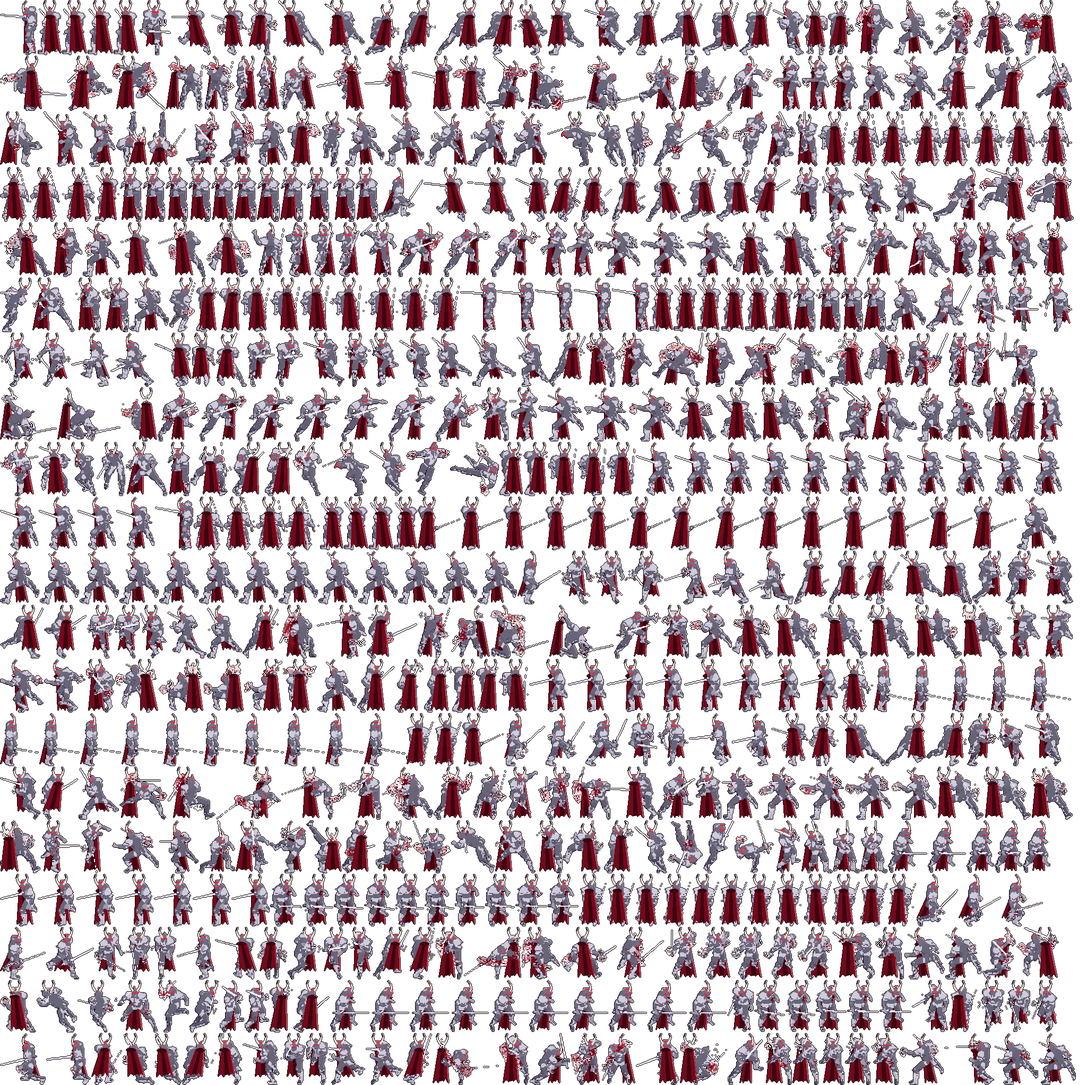
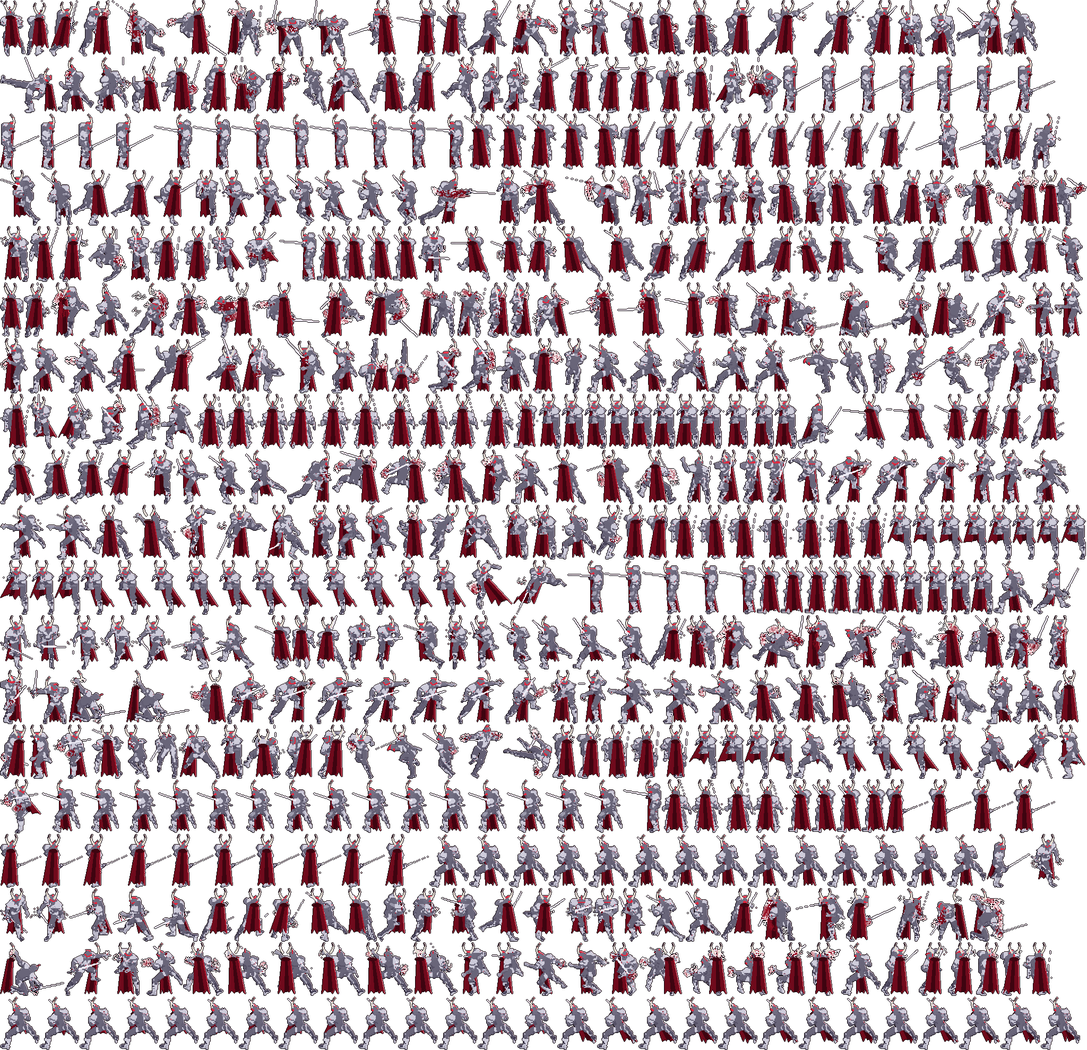
Vesper: the First Cut's animation and effects packs; the opening re-cut for him
Cinematic clips from the knight's own frames with the cape in the wind (hover,
stand, raise, cut, command) and his own effects (the crescent cut, flame aura,
crown fire, blade glint, wind, summoning rune, shockwave). The opening's shots
of him now play them: the rise, the call to his army, the cut across the moon,
the wait at the top of the Spire.

Claude-Session: https://claude.ai/code/session_01U68ANvC5EPq8neAmbwhWjn

diff --git a/vesper/js/intro.js b/vesper/js/intro.js
@@ -394,7 +394,8 @@
       // He rises out of the city behind the roofs and comes to stand on the Spire's tip (the real knight, crisp).
       const fy = Math.round(H() * 1.15 + (spTip + 1 - H() * 1.15) * rise);
       A.tex(ctx, 'light_01', sx, fy - 40, W() * 0.9 * (0.5 + rise), H() * 1.2, '#a01838', 0.6 * rise, 0, true);
-      godAt(ctx, S, sx, fy, 2, T, { col: '#140409', amt: 0.35, pose: rise >= 1 && T > 2.3 ? 'raise' : null });
+      godAt(ctx, S, sx, fy, 2, T, { col: '#140409', amt: 0.35, pose: rise < 1 ? 'hover' : T > 2.3 ? 'raise' : 'stand', aura: 0.5 + 0.4 * rise, crown: rise >= 1 });
+      if (rise > 0.2) A.fx(ctx, 'fc_wind', T, sx, fy - 50, 1.4, 0.7 * rise);   // ash and torn cloth streaming off him
       if (rise < 1) for (let i = 0; i < 16; i++) { const ph = (T * 1.4 + hash(i, 611)) % 1, px = sx + (hash(i, 612) - 0.5) * 40, py = fy - 10 + ph * 40; ctx.fillStyle = `rgba(30,12,20,${0.8 * (1 - ph)})`; ctx.fillRect(Math.round(px), Math.round(py), 1, 1); }
     }
     // The city: its windows going dark as the ground shakes.
@@ -433,10 +434,13 @@
     ctx.save(); ctx.translate(mx, H() * 0.6); ctx.scale(push, push); ctx.translate(-mx, -H() * 0.6);
     moon(ctx, mx + (raise ? Math.sin(T * 60) * 1.5 : 0), H() * 0.34, H() * 0.34, '#f4ece6', 'rgba(255,240,230,0.3)', 0);
     { const rg = ctx.createRadialGradient(mx, H() * 0.7, 4, mx, H() * 0.7, W() * 0.5); rg.addColorStop(0, 'rgba(30,0,8,0.8)'); rg.addColorStop(1, 'rgba(30,0,8,0)'); ctx.fillStyle = rg; ctx.fillRect(-8, -8, W() + 16, H() + 16); }
-    // Him on the Spire's tip against the moon, close: the real knight at 3x; he draws his sword back.
+    // Him on the Spire's tip against the moon: he calls his army (arms out, the fire rising round him, his runes
+    // opening on the roofs far below), then draws his sword back along the line the cut will take, the moon running
+    // down its edge (his animation and effects packs: C_Command, C_Cut, fc_aura, fc_summon, fc_glint).
     A.tex(ctx, 'light_01', mx, H() * 0.55, 140, 150, '#a01838', 0.35, 0, true);
-    godAt(ctx, S, mx, Math.round(H() * 0.88), 3, T, { pose: raise ? 'side' : null, col: '#0a0408', amt: 0.3 });
-    if (raise) A.tex(ctx, 'light_01', mx - 30, H() * 0.6, 50, 50, '#ffffff', 0.25 * clamp((T - 1.2) / 0.4), 0, true);   // the moon on his blade
+    if (!raise) for (let i = 0; i < 4; i++) A.fx(ctx, 'fc_summon', T + i * 0.3, mx + (i - 1.5) * 52, H() * (0.9 + (i % 2) * 0.05), 0.9, clamp(T * 2 - i * 0.25));
+    godAt(ctx, S, mx, Math.round(H() * 0.88), 2, T, { pose: raise ? 'cut' : 'command', ft: raise ? 0.18 * clamp((T - 1.2) / 0.5) : null, col: '#0a0408', amt: 0.3, crown: true });
+    if (raise) A.fx(ctx, 'fc_glint', T - 1.3, mx - 22, H() * 0.6, 1, 1, -1.1);   // the moon running down his blade
     // The tip of the Spire beneath his feet.
     ctx.fillStyle = '#030204'; ctx.beginPath(); ctx.moveTo(mx - 30, H() + 10); ctx.lineTo(mx - 4, H() * 0.88); ctx.lineTo(mx + 4, H() * 0.88); ctx.lineTo(mx + 30, H() + 10); ctx.fill();
     ctx.restore();
@@ -471,7 +475,8 @@
     const hz = Math.round(H() * 0.86), gx = Math.round(mx), gy = Math.round(H() * 0.64);   // he stands on the Spire's tip, in front of the moon
     if (red > 0) A.tex(ctx, 'light_01', mx, hz, W() * 1.3, 60, RED, 0.6 * red, 0, true);
     A.tex(ctx, 'light_01', gx, gy - 40, 110, 110, red > 0 ? '#ff3a52' : '#a0a0c0', 0.25, 0, true);
-    godAt(ctx, S, gx, gy, 2, T, { pose: T < 1.55 ? 'side' : null, ft: T < 1.15 ? null : clamp((T - 1.15) / 0.4), col: '#0a0408', amt: 0.3 });
+    godAt(ctx, S, gx, gy, 2, T, { pose: 'cut', ft: T < 1.15 ? 0.18 : 0.18 + 0.82 * clamp((T - 1.15) / 0.5), col: '#0a0408', amt: 0.3, crown: true });
+    if (T > 1.1 && T < 1.75) A.fx(ctx, 'fc_crescent', T - 1.1, mx, my + r * 0.05, r / 120, 1, ang);   // his cut, a crescent of light across the moon
     if (T < 1.15) { const c = clamp(T / 1.1); A.tex(ctx, 'light_01', gx - 30, gy - 30, 30 + 40 * c, 30 + 40 * c, '#ffffff', 0.4 + 0.5 * c, 0, true); }   // light gathering on his blade
     ctx.fillStyle = '#0c0610'; ctx.beginPath(); ctx.moveTo(mx - 9, hz + 4); ctx.lineTo(mx - 2, H() * 0.68); ctx.lineTo(mx, H() * 0.64); ctx.lineTo(mx + 2, H() * 0.68); ctx.lineTo(mx + 9, hz + 4); ctx.fill();
     city(ctx, H() * 0.84, 7, '#1c1222', 0.3 * (1 - red), 1.0, 0);
@@ -778,6 +783,8 @@
   // col asks for a pure silhouette (the ink frames); any other darkens him toward it. Until the set has loaded: the
   // polygons (or nothing, with o.optional).
   const GOD_SET = 'vh_firstcut', godRef = {};
+  // pose -> [clip, frames, loop from (held poses cycle their last frames), fps]
+  const GOD_FILM = { hover: ['C_Hover', 15], stand: ['C_Stand', 15], raise: ['C_Raise', 12, 4, 6], cut: ['C_Cut', 15], command: ['C_Command', 15, 7, 6] };
   // The First Cut standing with his feet at (fx, fy), k (a whole number) pixels per sprite pixel, in a pose: guard
   // (Idle4), raise (Taunt, or the overhead cut of Attack4 through o.ft 0..1), side (drawn back: Attack6, or the swing
   // through o.ft), kneel (the end of his overhead cut, down on one knee). Shading as colossus().
@@ -786,14 +793,20 @@
     o = o || {}; k = Math.max(1, Math.min(2, Math.round(k)));
     const col = o.col || '#050204', ink = o.ink || /^#(000|000000|fff|ffffff)$/i.test(col), ang = o.ang == null ? Math.PI / 2 : o.ang;
     let clip = 'Idle4', fr = Math.floor((T || 0) * 7) % 15;
-    if (o.pose === 'raise') { if (o.ft != null) { clip = 'Attack4'; fr = Math.min(14, Math.floor(o.ft * 15)); } else { clip = 'Taunt'; fr = 12; } }
+    // His animation pack for the films (tools_firstcut.py: C_*, the cape in the wind): hover, stand, raise, cut, command.
+    const FILM = GOD_FILM[o.pose];
+    if (FILM) { clip = FILM[0]; const n = FILM[1]; fr = o.ft != null ? Math.min(n - 1, Math.floor(o.ft * n)) : FILM[2] != null ? FILM[2] + Math.floor((T || 0) * FILM[3]) % (n - FILM[2]) : Math.floor((T || 0) * 8) % n; }
+    else if (o.pose === 'raise') { if (o.ft != null) { clip = 'Attack4'; fr = Math.min(14, Math.floor(o.ft * 15)); } else { clip = 'Taunt'; fr = 12; } }
     else if (o.pose === 'side') { clip = 'Attack6'; fr = o.ft != null ? Math.min(14, 1 + Math.floor(o.ft * 10)) : 1; }
     else if (o.pose === 'kneel') { clip = 'Attack4'; fr = 13; }
     if (!A.hasSet(GOD_SET)) { if (!o.optional) colossusDrawn(ctx, S, fx, fy - 38 * k, k, T, { flat: true, pose: o.pose === 'side' ? 'side' : o.pose === 'raise' ? 'raise' : 'plant', col }); return false; }
     const sm = ctx.imageSmoothingEnabled; ctx.imageSmoothingEnabled = false;
     const ref = godRef['f' + k] || (godRef['f' + k] = A.box(GOD_SET, 'Idle4', 0, ang, k));   // his feet (the sprite's anchor sits higher)
     const y = ref ? fy - (ref.y + ref.h) : fy;
+    // His effects pack (tools_firstcut_fx.py): the fire rising round him behind, the flames on his crown in front.
+    if (o.aura && !ink) A.fx(ctx, 'fc_aura', T || 0, Math.round(fx), Math.round(fy + 2), k * 0.4, 0.6 * (o.aura === true ? 1 : o.aura));   // low, licking about his feet
     A.actor(ctx, GOD_SET, clip, fr, ang, Math.round(fx), Math.round(y), k, ink ? { shade: col } : { flash: Math.min(0.16, o.amt != null ? o.amt : 0.16), flashCol: col });
+    if (o.crown && !ink && ref) A.fx(ctx, 'fc_crown', T || 0, Math.round(fx), Math.round(y + ref.y + 10 * k), k * 0.8, 0.9);
     ctx.imageSmoothingEnabled = sm; return true;
   }
   function colossus(ctx, S, ex, ey, sc, T, o) {
@@ -829,7 +842,8 @@
     const bolt = (T > 1.1 && T < 1.22) || (T > 2.6 && T < 2.7);
     if (bolt) fill(ctx, 'rgba(255,220,230,0.18)');
     { const py = Hh * 0.8; ctx.fillStyle = '#030102'; ctx.beginPath(); ctx.moveTo(ex - 60, at(Hh * 1.4)); ctx.lineTo(ex - 14, at(py + 6)); ctx.lineTo(ex - 6, at(py)); ctx.lineTo(ex + 8, at(py)); ctx.lineTo(ex + 16, at(py + 8)); ctx.lineTo(ex + 64, at(Hh * 1.4)); ctx.fill();   // the pinnacle
-      godAt(ctx, S, ex, at(py) + 1, 3, T, { col: bolt ? '#3a0c18' : '#0a0408', amt: bolt ? 0.15 : 0.3, pose: T > 2.3 ? 'raise' : null }); }
+      godAt(ctx, S, ex, at(py) + 1, 2, T, { col: bolt ? '#3a0c18' : '#0a0408', amt: bolt ? 0.15 : 0.3, pose: T > 2.3 ? 'raise' : 'stand', aura: true, crown: true });
+      A.fx(ctx, 'fc_wind', T, ex - 10, at(py) - 50, 1.6, 0.8); }
     if (T > 2.3 && T < 2.4) kick(S, 6);
     // Clouds across his chest and waist, stones rising past him.
     for (let i = 0; i < 6; i++) A.tex(ctx, i % 2 ? 'smoke_07' : 'smoke_04', ((hash(i, 221) * W() * 1.6 + T * 12 * (i % 2 ? 1 : -1)) % (W() * 1.6)) - W() * 0.3, at(Hh * (0.85 + i * 0.17)), W() * 0.9, 50, '#3a0a14', 0.55, 0, false);
@@ -852,7 +866,7 @@
     ctx.save(); ctx.translate(W() / 2, gy); ctx.scale(push, push); ctx.translate(-W() / 2, -gy);
     moon(ctx, W() * 0.5, H() * 0.3, H() * 0.24, '#ff3a52', 'rgba(255,40,70,0.6)', 1, T);
     A.tex(ctx, 'light_01', W() * 0.5, H() * 0.4, W() * 0.8, H() * 0.7, '#7a1028', 0.5, 0, true);
-    godAt(ctx, S, Math.round(W() * 0.5), Math.round(H() * 0.62) + 1, 2, T, { col: '#0a0306', amt: 0.3 });
+    godAt(ctx, S, Math.round(W() * 0.5), Math.round(H() * 0.62) + 1, 2, T, { col: '#0a0306', amt: 0.3, pose: 'stand', crown: true });
     city(ctx, gy - 18, 29, '#14040a', 0, 0.7, 0);
     ctx.fillStyle = '#0c0206'; ctx.beginPath(); ctx.moveTo(W() * 0.5 - 6, gy - 16); ctx.lineTo(W() * 0.5 - 1, H() * 0.62); ctx.lineTo(W() * 0.5 + 1, H() * 0.62); ctx.lineTo(W() * 0.5 + 6, gy - 16); ctx.fill();   // the Spire (he stands on it)
     for (let i = 0; i < 3; i++) A.tex(ctx, 'smoke_04', ((hash(i, 741) * W() * 1.4 + T * (6 + i * 3)) % (W() * 1.4)) - W() * 0.2, gy - 16 + i * 4, W() * 0.8, 22, '#4a0c18', 0.5, 0, false);
@@ -910,7 +924,7 @@
       const e = clamp((k - 0.65) / 0.35);
       ctx.fillStyle = '#0a0204'; ctx.fillRect(-8, -8, W() + 16, gy + 8);
       { const rg = ctx.createRadialGradient(W() * 0.5, H() * 0.24, 4, W() * 0.5, H() * 0.3, W() * 0.6); rg.addColorStop(0, '#7a1424'); rg.addColorStop(1, '#14030a'); ctx.fillStyle = rg; ctx.fillRect(-8, -8, W() + 16, H() + 16); }
-      godAt(ctx, S, Math.round(W() * 0.5), Math.round(H() * 0.62), 2, T, { col: '#030102', amt: 0.5 });
+      godAt(ctx, S, Math.round(W() * 0.5), Math.round(H() * 0.62), 2, T, { col: '#030102', amt: 0.5, pose: 'stand' });
       burningEyes(ctx, Math.round(W() * 0.5), Math.round(H() * 0.24), 9, 1, T);
       ctx.fillStyle = '#000'; ctx.fillRect(-8, gy, W() + 16, H());
       A.actor(ctx, vs, 'Special1', 14, -Math.PI * 0.5, gx, gy, 1.9, { shade: '#e8203c' });   // solid red against his black
@@ -1014,7 +1028,7 @@
     { const sp = Math.round(w * 0.47), tp = Math.round(h * 0.44); ctx.fillStyle = '#5a1a2a'; ctx.beginPath(); ctx.moveTo(sp - 10, hz + 4); ctx.lineTo(sp - 2, tp + 8); ctx.lineTo(sp - 2, tp); ctx.lineTo(sp + 2, tp); ctx.lineTo(sp + 2, tp + 8); ctx.lineTo(sp + 10, hz + 4); ctx.fill();
       ctx.fillStyle = '#0c0206'; ctx.beginPath(); ctx.moveTo(sp - 9, hz + 4); ctx.lineTo(sp - 1, tp + 9); ctx.lineTo(sp + 1, tp + 9); ctx.lineTo(sp + 9, hz + 4); ctx.fill();
       A.tex(ctx, 'light_01', sp, tp - 20, 50, 60, '#ff3a52', 0.4, 0, true);
-      godAt(ctx, S, sp, tp + 1, 1, T, { col: bolt ? '#3a0c18' : '#0c0206', amt: 0.25, optional: true }); }   // he waits at the top of the Spire
+      godAt(ctx, S, sp, tp + 1, 1, T, { col: bolt ? '#3a0c18' : '#0c0206', amt: 0.25, optional: true, pose: 'stand' }); }   // he waits at the top of the Spire
     ctx.fillStyle = '#0a0205'; ctx.fillRect(-20, hz + 2, w + 40, h);
     for (let i = 0; i < 34; i++) { const x = ((i * 11 + T * -6 + hash(i, 821) * 8) % (w + 40) + w + 40) % (w + 40) - 20; A.actor(ctx, deadSet(S, i), 'Walk', Math.floor(T * 7 + i * 3) % 15, Math.PI, Math.round(x), hz + 3 + (i % 3), 0.32, { shade: bolt ? '#4a1a24' : '#16040a' }); }
     ctx.restore();

diff --git a/vesper/js/assets.js b/vesper/js/assets.js
@@ -31,8 +31,9 @@
     let n = 0; const total = ids.length + 3; const tick = () => { n++; if (onProgress) onProgress(n / total); };
     const jobs = ids.map((id) => loadSet(id).then(tick));
     // The effect pack, and the forge's effects (tools_forge.py: v_*) merged in after it (their page indices shifted).
-    jobs.push(Promise.all([loadJSON(A.ROOT + 'fx/fx.json'), loadJSON(A.ROOT + 'fx/forge.json').catch(() => null)]).then(async ([d, f]) => {
-      if (f) { const off = d.pages.length; d.pages = d.pages.concat(f.pages); for (const k in f.fx) { const e = f.fx[k]; e.frames = e.frames.map((fr) => [fr[0] + off].concat(fr.slice(1))); d.fx[k] = e; } }
+    // ... and the First Cut's own pack (tools_firstcut_fx.py: fc_*), the same way.
+    jobs.push(Promise.all([loadJSON(A.ROOT + 'fx/fx.json'), loadJSON(A.ROOT + 'fx/forge.json').catch(() => null), loadJSON(A.ROOT + 'fx/fc_fx.json').catch(() => null)]).then(async ([d, f, fc]) => {
+      for (const g of [f, fc]) if (g) { const off = d.pages.length; d.pages = d.pages.concat(g.pages); for (const k in g.fx) { const e = g.fx[k]; e.frames = e.frames.map((fr) => [fr[0] + off].concat(fr.slice(1))); d.fx[k] = e; } }
       d.images = await Promise.all(d.pages.map((p) => loadImage(A.ROOT + 'fx/' + p))); fxData = d; tick();
     }));
     jobs.push(loadJSON(A.ROOT + 'tiles/tiles.json').then(async (d) => { d.images = await Promise.all(d.pages.map((p) => loadImage(A.ROOT + 'tiles/' + p))); tileData = d; tick(); }));

diff --git a/vesper/tools_firstcut_fx.py b/vesper/tools_firstcut_fx.py
@@ -1,0 +1,141 @@
+# THE BLEEDING MOON - the First Cut's effects pack (2026-11-11, the author: "create an animation and asset pack and
+# change the cutscenes for the opening to work better with his model"). Pixel effects in the fx.json format, drawn
+# with the forge's own helpers (tools_forge.py) and merged into the effect set by js/assets.js:
+#   fc_crescent   the cut that wounded the moon: a long crescent of white-hot light, crimson at its edges, sweeping
+#   fc_aura       crimson-black fire rising round him (a loop; drawn behind his feet)
+#   fc_crown      small flames licking up from his crown and horns (a loop)
+#   fc_glint      a glint running up his blade
+#   fc_wind       ash and torn cloth streaming past on the wind (a loop)
+#   fc_summon     a rune circle opening in the ground, red motes rising out of it (a loop)
+#   fc_shock      a flat crimson shockwave ring for his landing (seen from the side)
+# Writes assets/fx/fc_fx.json and fc_fx.png. Usage: python3 vesper/tools_firstcut_fx.py [preview.png]
+import json, math, os, sys
+import numpy as np
+from PIL import Image
+sys.path.insert(0, os.path.dirname(__file__))
+import tools_forge as T
+
+P, E, D = T.FXPAL['red'], T.FXPAL['ember'], T.FXPAL['dust']
+INK = (24, 6, 12)
+OUT = os.path.abspath(os.path.join(os.path.dirname(__file__), '..', 'assets', 'fx'))
+
+def crescent():
+    out = []
+    for i in range(10):
+        f = T.frame(256, 96); k = i / 9; a1 = -2.9 + 2.5 * min(1, (i + 1) / 4); tail = max(-2.9, a1 - 2.2)
+        if k < 0.95:
+            T.band(f, 128, 300, 222, 236 - k * 8, P[2], 255 * (1 - k * 0.6), 1.0, tail, a1)
+            T.band(f, 128, 300, 228, 236 - k * 5, P[4], 255 * (1 - k * 0.8), 1.0, max(tail, a1 - 1.2), a1)
+            T.band(f, 128, 300, 232, 236, P[6], 255 * (1 - k), 1.0, max(tail, a1 - 0.6), a1)
+        for j in range(10):   # sparks thrown off its leading edge
+            a = a1 - j * 0.09; d = 236 + (j % 3) * 3 + k * 10; T.put(f, 128 + math.cos(a) * d, 300 + math.sin(a) * d, P[5] if j % 2 else P[3], 255 * (1 - k))
+        out.append(f)
+    return out, 20, False
+
+def aura(seed):
+    """Tongues of crimson-black fire licking up round him: each a tapered flame, dark outside, red, a hot core low down."""
+    r = T.rng(seed); out = []; tongues = [(8 + r.random() * 48, r.random(), 0.7 + r.random() * 0.7, 24 + r.random() * 40) for _ in range(11)]
+    for i in range(10):
+        f = T.frame(64, 96); t = i / 10
+        T.blob(f, 32, 90, 24, INK, 110, 0.22)
+        for (x0, ph, sp, hmax) in tongues:
+            q = (t * sp + ph) % 1; h = hmax * (0.55 + 0.45 * math.sin(q * math.pi)); base = 92; w0 = 4.5
+            for yy in range(int(h)):
+                u = yy / h; x = x0 + math.sin(u * 3 + q * 6.283 + ph * 9) * 3 * u; w = w0 * (1 - u) ** 0.8
+                y = base - yy; a = 255 * (1 - u * 0.6)
+                for dx in range(-int(w) - 1, int(w) + 2):
+                    ad = abs(dx) / max(0.5, w)
+                    if ad > 1.15: continue
+                    col = INK if ad > 0.75 else P[2] if (ad > 0.35 or u > 0.45) else P[4] if u > 0.15 else P[5]
+                    T.put(f, x + dx, y, col, a)
+        out.append(f)
+    return out, 12, True
+
+def crown(seed):
+    r = T.rng(seed); out = []; ps = [(r.random() * 16 + 4, r.random()) for _ in range(8)]
+    for i in range(6):
+        f = T.frame(24, 28); t = i / 6
+        for (x0, ph) in ps:
+            q = (t + ph) % 1; y = 26 - q * 22; x = x0 + math.sin(q * 9 + ph * 7) * 1.5
+            T.put(f, x, y, P[3] if q < 0.5 else P[2], 255 * (1 - q)); T.put(f, x, y + 1, P[5] if q < 0.3 else P[3], 220 * (1 - q))
+        out.append(f)
+    return out, 12, True
+
+def glint():
+    out = []
+    for i in range(8):
+        f = T.frame(16, 72); k = i / 7; y = 66 - 60 * k
+        for dy in range(-6, 7):
+            a = 255 * (1 - abs(dy) / 7) * (1 - max(0, k - 0.8) * 5)
+            T.put(f, 8, y + dy, P[6] if abs(dy) < 2 else P[5], a)
+        T.blob(f, 8, y, 3, P[6], 255 * (1 - k * 0.5)); T.put(f, 4, y, P[5], 200); T.put(f, 12, y, P[5], 200)
+        out.append(f)
+    return out, 16, False
+
+def wind(seed):
+    r = T.rng(seed); out = []; ps = [(r.random() * 48, r.random(), r.random()) for _ in range(22)]
+    for i in range(12):
+        f = T.frame(128, 48); t = i / 12
+        for (y0, ph, kind) in ps:
+            q = (t + ph) % 1; x = q * 140 - 6; y = y0 + math.sin(q * 6 + ph * 5) * 3
+            if kind < 0.3:   # a torn scrap of his cape
+                T.put(f, x, y, (112, 10, 28)); T.put(f, x + 1, y, (178, 28, 48)); T.put(f, x - 1, y + 1, (62, 4, 16))
+            elif kind < 0.7: T.put(f, x, y, D[2], 200); T.put(f, x - 1, y, D[1], 150)
+            else: T.put(f, x, y, E[3], 230 * (1 - q)); T.put(f, x - 1, y, E[2], 160 * (1 - q))
+        out.append(f)
+    return out, 16, True
+
+def summon(seed):
+    r = T.rng(seed); out = []; motes = [(r.random() * 6.283, r.random(), r.random()) for _ in range(20)]
+    for i in range(10):
+        f = T.frame(96, 64); t = i / 10; cx, cy = 48, 52
+        T.band(f, cx, cy, 30, 33, P[2], 200, 0.32); T.band(f, cx, cy, 20, 22, P[3], 220, 0.32)
+        for j in range(8):   # runes turning round the ring
+            a = j / 8 * 6.283 + t * 0.8; x, y = cx + math.cos(a) * 26, cy + math.sin(a) * 26 * 0.32
+            T.put(f, x, y, P[5]); T.put(f, x + 1, y, P[4]); T.put(f, x, y - 1, P[4])
+        T.blob(f, cx, cy, 18, P[1], 120, 0.32)
+        for (a, ph, sp) in motes:
+            q = (t + ph) % 1; rr = 10 + 18 * sp; x = cx + math.cos(a) * rr; y = cy + math.sin(a) * rr * 0.32 - q * 46
+            T.put(f, x, y, P[4] if q < 0.5 else P[3], 255 * (1 - q))
+        out.append(f)
+    return out, 12, True
+
+def shock():
+    out = []
+    for i in range(9):
+        f = T.frame(192, 64); k = i / 8; rr = 10 + 84 * (1 - (1 - k) ** 2); w = 8 * (1 - k) + 2
+        T.band(f, 96, 40, rr - w, rr, P[2], 255 * (1 - k * 0.8), 0.3); T.band(f, 96, 40, rr - w * 0.4, rr, P[5], 255 * (1 - k), 0.3)
+        if i < 3: T.blob(f, 96, 40, 18 - i * 4, P[6], 255, 0.3)
+        out.append(f)
+    return out, 18, False
+
+def build(preview=None):
+    makers = {'fc_crescent': crescent(), 'fc_aura': aura(31), 'fc_crown': crown(32), 'fc_glint': glint(), 'fc_wind': wind(33), 'fc_summon': summon(34), 'fc_shock': shock()}
+    bottom = {'fc_aura', 'fc_crown', 'fc_summon'}
+    items, meta = [], {}
+    for name, (frames, fps, loop) in makers.items():
+        h, w = frames[0].shape[:2]; meta[name] = {'fps': fps, 'loop': loop, 'size': [w, h], 'anchor': [w // 2, h - 4] if name in bottom else [w // 2, h // 2]}
+        for i, f in enumerate(frames):
+            im = Image.fromarray(np.clip(f, 0, 255).astype(np.uint8), 'RGBA'); bb = im.getbbox() or (0, 0, 1, 1)
+            items.append((f'{name}/{i}', im.crop(bb), (bb[0], bb[1])))
+    page, place = T.pack(items, 1024)
+    page.save(OUT + '/fc_fx.png', optimize=True)
+    fx = {}
+    for name, m in meta.items():
+        n = len([k for k in place if k.startswith(name + '/')])
+        m['frames'] = [[0] + list(place[f'{name}/{i}'][:6]) for i in range(n)]; fx[name] = m
+    json.dump({'pages': ['fc_fx.png'], 'fx': fx}, open(OUT + '/fc_fx.json', 'w'))
+    print('fc fx:', list(fx), 'page', page.size)
+    if preview:
+        sheet = Image.new('RGBA', (1300, 120 * len(makers)), (38, 22, 30, 255)); y = 6
+        for name, (frames, fps, loop) in makers.items():
+            x = 6
+            for f in frames[:8]:
+                im = Image.fromarray(np.clip(f, 0, 255).astype(np.uint8), 'RGBA')
+                if im.width > 160: im = im.resize((im.width // 2, im.height // 2))
+                sheet.alpha_composite(im, (x, y)); x += im.width + 4
+            y += 110
+        sheet.save(preview)
+
+if __name__ == '__main__':
+    build(sys.argv[1] if len(sys.argv) > 1 else None)

diff --git a/vesper/tools_firstcut.py b/vesper/tools_firstcut.py
@@ -67,7 +67,7 @@ def head_of(a):
     ys, xs = np.nonzero(warm)
     if not len(ys): ys, xs = np.nonzero(a[..., 3] > 0); y0 = ys.min(); sel = ys <= y0 + 4; return xs[sel].mean(), y0 + 4.0
     y0 = ys.min(); sel = ys <= y0 + 5; return xs[sel].mean(), ys[sel].mean()
-def cape(im, d, hx, hy, feet, i, clip, front):
+def cape(im, d, hx, hy, feet, i, clip, front, wind=None):
     """A tattered crimson cape from his shoulders: behind him, or over his back when he faces away."""
     g = ImageDraw.Draw(im); sy = hy + 13; L = max(18, feet - sy - 4)
     side = {'E': -1, 'W': 1, 'SE': -0.5, 'SW': 0.5, 'NE': -0.5, 'NW': 0.5, 'S': 0, 'N': 0}[d]
@@ -75,15 +75,19 @@ def cape(im, d, hx, hy, feet, i, clip, front):
     profile = d in ('E', 'W')
     tw, bw = (9, 20) if profile else (15, 30) if front else (13, 28)
     back = side * (16 if moving else 9) + sway; L = L * (0.82 if moving else 1)
+    lift = 0
+    if wind:   # the cinematic clips: (wx, lift, spread, flutter): blown sideways, lifted and spread by the wind
+        wx, lift, spread, flut = wind; back = side * 4 + wx * L * 0.55 + math.sin(i * 1.3) * flut; bw *= spread
     tl, tr = (hx - tw / 2 + side * 3, sy), (hx + tw / 2 + side * 3, sy)
-    bl, br = (hx - bw / 2 + back, sy + L), (hx + bw / 2 + back, sy + L)
+    by = sy + L * (1 - lift)
+    bl, br = (hx - bw / 2 + back, by), (hx + bw / 2 + back, by)
     hem = [br]; n = 6
     for k in range(1, n):   # the torn hem
-        t = k / n; hem.append((br[0] + (bl[0] - br[0]) * t, br[1] - (7 if k % 2 else 1) - 2 * math.sin(i * 0.9 + k)))
+        t = k / n; amp = 2 if not wind else 2 + wind[3] * 0.8; hem.append((br[0] + (bl[0] - br[0]) * t, br[1] - (7 if k % 2 else 1) - amp * math.sin(i * 0.9 + k * 1.7)))
     hem.append(bl); pts = [tl, tr] + hem
     g.polygon(pts, fill=CAPE + (255,))
     mid = (tl[0] + tr[0]) / 2, (bl[0] + br[0]) / 2   # a fold down its middle and a lit edge
-    g.polygon([(mid[0] - 2, sy + 3), (mid[0] + 2, sy + 3), (mid[1] + 5, sy + L - 5), (mid[1] - 3, sy + L - 3)], fill=CAPE_DK + (255,))
+    g.polygon([(mid[0] - 2, sy + 3), (mid[0] + 2, sy + 3), (mid[1] + 5, by - 5), (mid[1] - 3, by - 3)], fill=CAPE_DK + (255,))
     g.line([tr, br], fill=CAPE_HI + (255,), width=2)
     g.ellipse([hx - tw / 2 - 1, sy - 3, hx + tw / 2 + 1, sy + 4], fill=CAPE_DK + (255,))   # the collar
 def horns(im, d, hx, hy):
@@ -98,15 +102,15 @@ def build():
     d = json.load(open(f'{PX}/{SRC}.json')); pages = [np.asarray(Image.open(f'{PX}/{p}').convert('RGBA')) for p in d['pages']]
     cache, items = {}, []   # unique frames: key -> (image, ox, oy)
     PAD = 14   # room (at 1x) for the cape, the horns and the outline
-    def process(f, clip, dname, i):
+    def process(f, clip, dname, i, wind=None):
         pg = pages[f[0]]; x, y, w, h, ox, oy = f[1:7]
         a = np.zeros((h + 2 * PAD, w + 2 * PAD, 4), np.uint8); a[PAD:PAD + h, PAD:PAD + w] = pg[y:y + h, x:x + w]
         hx, hy = head_of(a); hx, hy = hx * RES, hy * RES; feet = (PAD + h) * RES
         body = Image.fromarray(scale2x(recolour(a))); front = dname in ('N', 'NE', 'NW')
         canvas = Image.new('RGBA', body.size, (0, 0, 0, 0))
-        if clip not in NO_CAPE and not front: cape(canvas, dname, hx, hy, feet, i, clip, False)
+        if clip not in NO_CAPE and not front: cape(canvas, dname, hx, hy, feet, i, clip, False, wind)
         canvas.alpha_composite(body)
-        if clip not in NO_CAPE and front: cape(canvas, dname, hx, hy, feet, i, clip, True)
+        if clip not in NO_CAPE and front: cape(canvas, dname, hx, hy, feet, i, clip, True, wind)
         if clip != 'Die': horns(canvas, dname, hx, hy)
         img = finish(np.asarray(canvas).copy())
         ys, xs = np.nonzero(img[..., 3] > 0); y0, y1, x0, x1 = ys.min(), ys.max() + 1, xs.min(), xs.max() + 1
@@ -118,6 +122,24 @@ def build():
     anims = {}
     for clip, dirs in d['anims'].items():
         anims[clip] = {k: [None if f is None else process(f, clip, k, i) for i, f in enumerate(fr)] for k, fr in dirs.items()}
+    # The animation pack for the films (js/intro.js godAt): the knight's own frames, the cape in the wind.
+    #   C_Hover   rising over the city: the cape lifted and spread by the updraft
+    #   C_Stand   at the top of the Spire: the cape streaming out in the wind
+    #   C_Raise   the blade held high (the Taunt's raised frames), the cape billowing
+    #   C_Cut     the wide sweep that cut the moon (Attack6), the cape whipping against the swing
+    #   C_Command calling his dead up (Special1), the cape flaring
+    FILM_DIRS = ('S', 'SE', 'SW', 'E', 'W')
+    def film(name, src, frames, windf):
+        an = d['anims'][src]; anims[name] = {}
+        for k in FILM_DIRS:
+            fr = an.get(k) or an['S']; seq = [fr[min(len(fr) - 1, j)] for j in frames]
+            anims[name][k] = [None if f is None else process(f, 'Film', k, i, windf(i, len(seq), k)) for i, f in enumerate(seq)]
+    sgn = lambda k: {'E': -1, 'W': 1, 'SE': -1, 'SW': 1, 'S': 1}[k]
+    film('C_Hover', 'Idle4', range(15), lambda i, n, k: (0.15 * math.sin(i * 0.5), 0.42, 1.45, 4))
+    film('C_Stand', 'Idle4', range(15), lambda i, n, k: (0.75 * sgn(k), 0.18, 1.15, 3))
+    film('C_Raise', 'Taunt', [8, 9, 10, 11, 12, 12, 12, 13, 12, 12, 13, 12], lambda i, n, k: (0.5 * sgn(k), 0.3, 1.3, 4))
+    film('C_Cut', 'Attack6', range(15), lambda i, n, k: ((0.9 if i < 6 else -0.9) * sgn(k), 0.25, 1.3, 5))
+    film('C_Command', 'Special1', range(15), lambda i, n, k: (0.3 * sgn(k), 0.35 + 0.15 * min(1, i / 6), 1.5, 4))
     # Shelf-pack the unique frames, tallest first, into PAGE x PAGE sheets.
     order = sorted(range(len(items)), key=lambda i: -items[i][0].shape[0]); place = {}; sheets = []
     cx = cy = row = 0; sheet = None

diff --git a/vesper/README.md b/vesper/README.md
@@ -335,6 +335,21 @@ summit's far rim while you cut floating limbs. Now:
   The sheet says `"res": 2` and js/assets.js draws it at half the scale, so he keeps his size and gains the detail.
   Five 2048 pages, about 6 MB. He fights at 1.8 times a man's size. Used everywhere he appears: both his fights, the
   echo, the soul, the playable First Cut, the opening, the films.
+- **His animation pack** (the author: "create an animation and asset pack and change the cutscenes for the opening to work
+  better with his model"): cinematic clips in the same sheet, made from the knight's own frames with the cape answering the
+  wind (`tools_firstcut.py`, directions S, SE, SW, E, W): `C_Hover` (rising, the cape lifted and spread by the updraft),
+  `C_Stand` (the cape streaming out), `C_Raise` (the blade held high, its last frames cycling), `C_Cut` (the wide sweep that
+  cut the moon, the cape whipping against it), `C_Command` (calling his dead, arms out). godAt's poses `hover`, `stand`,
+  `raise`, `cut`, `command` play them.
+- **His effects pack** (`tools_firstcut_fx.py`, `assets/fx/fc_fx.*`, merged by js/assets.js): `fc_crescent` (the crescent of
+  white-hot light his cut leaves across the moon), `fc_aura` (crimson-black flame licking at his feet), `fc_crown` (flames on his
+  crown), `fc_glint` (the moon running down his blade), `fc_wind` (ash and torn cloth on the wind), `fc_summon` (his rune opening
+  in the ground, motes rising), `fc_shock` (a flat crimson shockwave).
+- **The opening, re-cut for him**: he rises over the city in the updraft (C_Hover, his flames, ash streaming off him) and lands
+  on the Spire's tip (C_Stand); "He wanted an army": arms out (C_Command), his runes opening on the roofs below, then he draws
+  back along the line of the cut, the moon glinting down his blade; "So he cut the moon": the sweep itself (C_Cut) timed with
+  the stroke, the crescent of light across the moon; at the top of the Spire the wind in his cape, flames on his crown, then
+  the blade up (C_Raise); "Kneel" and the title menu: standing in the wind. The flash in the cold open: his raised blade in ink.
 - **The last fight** (a5-b) is a duel: `D.FOES.firstCutFinal`, the knight himself on the summit at 1.6 times a man's size,
   with his combo, lunges, crescent waves, moonfall and mirror. The god above (js/sim.js, 'the god') is now only the will
   behind him: its health follows his body's; he raises his blade to call the sky blades, crosses, sweeps and quakes (more
